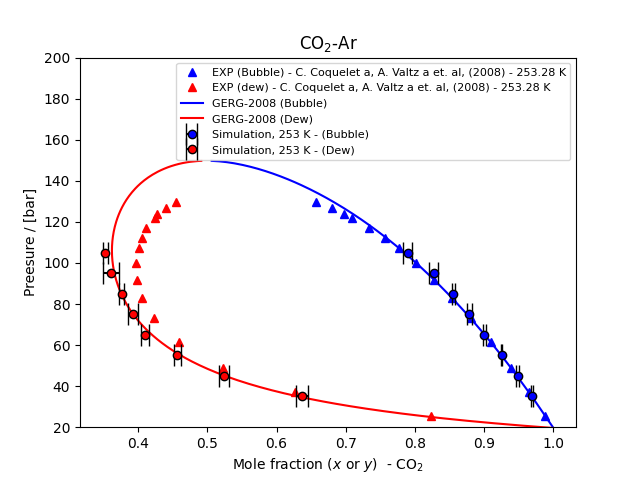
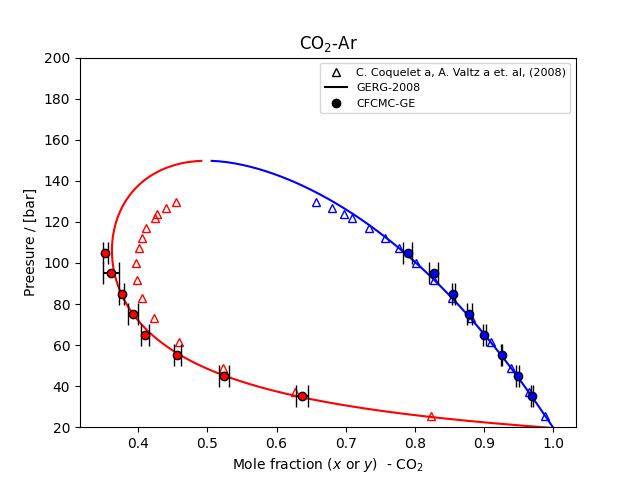
23/11/2023

diff --git a/plot.py b/plot.py
@@ -31,15 +31,18 @@ EXP = np.loadtxt(file_path_EXP, skiprows=1, usecols=(0,1,2))
 
 #print(EXP[:,0])
 
-plt.plot(1-EXP[:,1], EXP[:,0]*10,'^b', label=f'EXP (Bubble) - C. Coquelet a, A. Valtz a et. al, (2008) - 253.28 K')
-plt.plot(1-EXP[:,2], EXP[:,0]*10, '^r', label=f'EXP (dew) - C. Coquelet a, A. Valtz a et. al, (2008) - 253.28 K' )
-plt.plot(NIST[:269,0], NIST[:269,1], 'b-', label=f'GERG-2008 (Bubble)')
-plt.plot(NIST[270:,0], NIST[270:,1], 'r-', label=f'GERG-2008 (Dew)')
-plt.errorbar(SIM[:,1],SIM[:,0], xerr=SD[:,1], fmt='o',  capsize=8, markeredgewidth=1, color='black', markerfacecolor='blue', label= f'Simulation, 253 K - (Bubble)' )
-plt.errorbar(SIM[:,2],SIM[:,0], xerr=SD[:,2], fmt='o', capsize=8,  markeredgewidth=1, color='black', markerfacecolor='red', label= f'Simulation, 253 K - (Dew)' )
+plt.plot(1-EXP[:,1], EXP[:,0]*10,'^b', markeredgewidth=1, markerfacecolor='none', label=f'C. Coquelet a, A. Valtz a et. al, (2008)')
+plt.plot(1-EXP[:,2], EXP[:,0]*10,'^r' , markeredgewidth=1, markerfacecolor='none' )
+plt.plot(NIST[:269,0], NIST[:269,1], 'b-', label=f'GERG-2008')
+plt.plot(NIST[270:,0], NIST[270:,1], 'r-')
+plt.errorbar(SIM[:,1],SIM[:,0], xerr=SD[:,1], fmt='o',  capsize=8, markeredgewidth=1, color='black', markerfacecolor='blue')
+plt.errorbar(SIM[:,2],SIM[:,0], xerr=SD[:,2], fmt='o', capsize=8,  markeredgewidth=1, color='black', markerfacecolor='red')
 plt.title('CO$_2$-Ar')
 plt.ylim(20, 200)
 plt.xlabel(r'Mole fraction ($\mathit{x}$ or $\mathit{y}$)  - CO$_2$')
 plt.ylabel(r'Preesure / [bar]')
-plt.legend(fontsize=8, loc='best')
+dummy_line1, = plt.plot([], [], 'o', markeredgewidth=1, color='black', markerfacecolor='k', label= f'CFCMC-GE' )
+legend = plt.legend(fontsize=8, loc='best')
+for handle in legend.legendHandles:
+    handle.set_color("black")
 plt.savefig('CO2_Ar.png')
